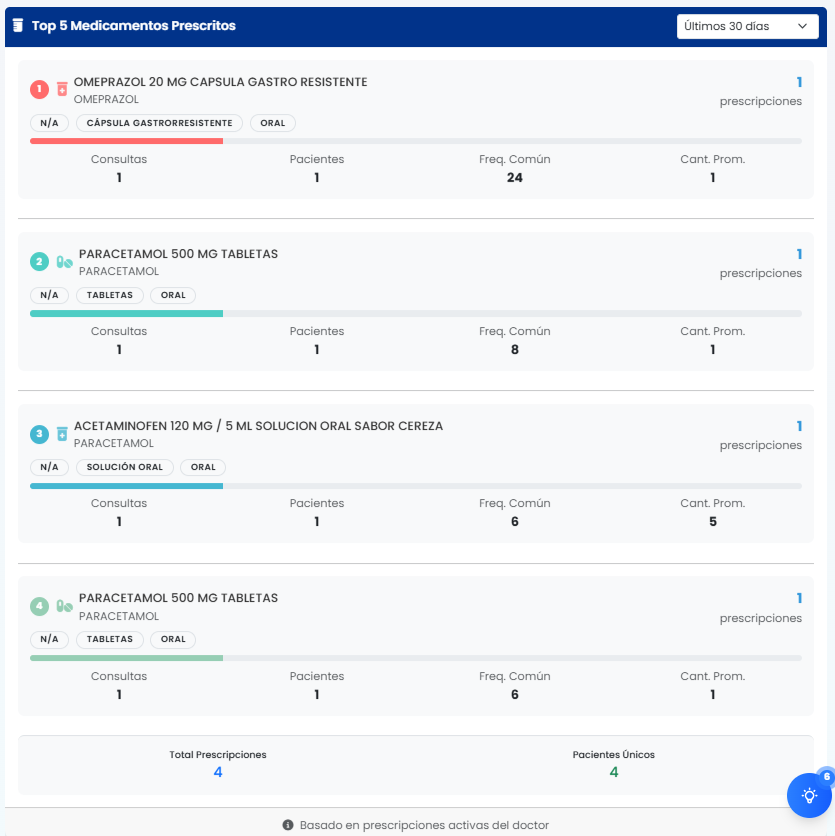
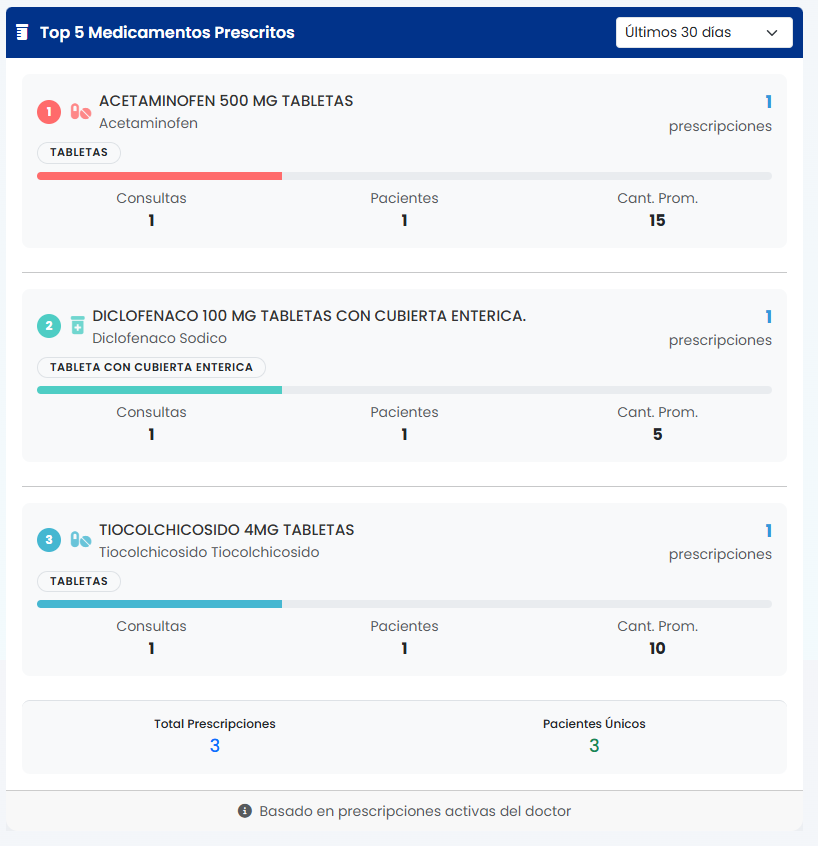
bug fix

diff --git a/resources/views/help/billing.blade.php b/resources/views/help/billing.blade.php
@@ -390,9 +390,9 @@ body {
 .status-issued { background: #e3f2fd; color: #1565c0; }
 .status-balanced { background: #e8f5e9; color: #2e7d32; }
 .status-cancelled { background: #ffebee; color: #c62828; }
-.status-unpaid { background: #fff3e0; color: #e65100; }
-.status-partially-paid { background: #fff9c4; color: #f57f17; }
-.status-paid { background: #c8e6c9; color: #1b5e20; }
+.status-unpaid { background: #ffe5f6; color: #ff01a2; }
+.status-partially-paid { background: #fef5e4; color: #ff9b01; }
+.status-paid { background:rgba(0, 211, 199, 0.1); color: #00D3C7; }
 
 /* Back to top */
 .back-to-top {
@@ -675,9 +675,9 @@ body {
                 <li>Esta sección muestra los servicios ya agregados</li>
             </ul>
 
-        <div>
-            <img src="{{ asset('images/tutorial/invoices/invoice_cs.png') }}" alt="" style="width: 100%;">
-        </div>
+            <div>
+                <img src="{{ asset('images/tutorial/invoices/invoice_cs.png') }}" alt="" style="width: 100%;">
+            </div>
 
         <div class="info-box note">
             <div class="info-box-title">
@@ -710,16 +710,17 @@ body {
             </ul>
 
             <div>
-                <img src="{{ asset('images/tutorial/invoices/invoice_add.png') }}" alt="" style="width: 100%;">
+                <img src="{{ asset('images/tutorial/encounters/invoice_add.png') }}" alt="" style="width: 100%;">
             </div>
-
+            {{--}}
             <div class="info-box tip">
                 <div class="info-box-title">
                     <i class="fas fa-lightbulb text-success"></i>
                     Acceso Rápido
                 </div>
-                <p class="mb-0">Esta sección cuenta con un "Acceso Rápido" con los servicios más utilizados, para acceder a el haga clic en <strong>"Listado de Servicios"</strong>. Esto permite agregar servicios comunes con un sólo clic.</p>
+                <p class="mb-0">Esta sección cuenta con un "Directorio de servicios por categoria" , para acceder a el haga clic en <strong>"Listado de Servicios"</strong>. Esto permite agregar servicios comunes con un sólo clic.</p>
             </div>
+            {{--}}
         </div>
 
         <!-- Step 3 -->
@@ -791,7 +792,7 @@ body {
             </ul>
 
             <div>
-                <img src="{{ asset('images/tutorial/invoices/invoice_edit.png') }}" alt="" style="width: 100%;">
+                <img src="{{ asset('images/tutorial/encounters/encounter_services.png') }}" alt="" style="width: 100%;">
             </div>
 
             <div class="info-box danger">
@@ -1044,24 +1045,23 @@ body {
                     <tr>
                         <th>Estado de Pago</th>
                         <th>Descripción</th>
-                        <th>Badge</th>
                     </tr>
                 </thead>
                 <tbody>
                     <tr>
-                        <td data-label="Estado"><strong>Unpaid</strong></td>
+                        <td data-label="Badge"><span class="status-badge status-unpaid">{{ App\Enums\InvoivePatientStatus::getLabel('unpaid')  }}</span></td>
                         <td data-label="Descripcion">No se ha registrado ningún pago</td>
-                        <td data-label="Badge"><span class="status-badge status-unpaid">No Pagada</span></td>
+
                     </tr>
                     <tr>
-                        <td data-label="Estado"><strong>Partially Paid</strong></td>
+                        <td data-label="Badge"><span class="status-badge status-partially-paid">{{ App\Enums\InvoivePatientStatus::getLabel('partial')  }}</span></td>
                         <td data-label="Descripcion">Se ha pagado parte del monto total</td>
-                        <td data-label="Badge"><span class="status-badge status-partially-paid">Pago Parcial</span></td>
+
                     </tr>
                     <tr>
-                        <td data-label="Estado"><strong>Paid</strong></td>
+                        <td data-label="Badge"><span class="status-badge status-paid">{{ App\Enums\InvoivePatientStatus::getLabel('paid')  }}</span></td>
                         <td data-label="Descripcion">Monto total pagado completamente</td>
-                        <td data-label="Badge"><span class="status-badge status-paid">Pagada</span></td>
+
                     </tr>
                 </tbody>
             </table>
@@ -1171,18 +1171,6 @@ body {
                 </div>
             </div>
 
-            <div class="accordion-item">
-                <h2 class="accordion-header">
-                    <button class="accordion-button collapsed" type="button" data-bs-toggle="collapse" data-bs-target="#faq5">
-                        ¿Cómo configuro el catálogo de servicios?
-                    </button>
-                </h2>
-                <div id="faq5" class="accordion-collapse collapse" data-bs-parent="#faqAccordion">
-                    <div class="accordion-body">
-                        El catálogo de servicios se configura en el módulo de <a href="{{ route('help.settings') }}">Configuraciones</a>. Solo usuarios con permisos de administrador pueden agregar, modificar o eliminar servicios del catálogo. Contacte a su administrador si necesita cambios en el catálogo.
-                    </div>
-                </div>
-            </div>
         </div>
 
         <div class="info-box tip mt-4">

diff --git a/resources/views/help/settings.blade.php b/resources/views/help/settings.blade.php
@@ -1390,7 +1390,7 @@ margin: 20px 0;
                             </tr>
                             <tr>
                                 <td data-label="Seccion"><strong>Enfermedad Actual</strong></td>
-                                <td data-label="Descripcion">Descripcion de la enfermedad presente</td>
+                                <td data-label="Descripcion">Descripcion de la enfermedad presente <br/><b>NOTA :</b> Esta seccion se puede ajustar al modo simplificado , que implica un solo campo de descripción de la enfermedad actual.</td>
                             </tr>
                             <tr>
                                 <td data-label="Seccion"><strong>Examen Fisico</strong></td>
@@ -1411,6 +1411,14 @@ margin: 20px 0;
                             <tr>
                                 <td data-label="Seccion"><strong>Medicamentos</strong></td>
                                 <td data-label="Descripcion">Medicamentos recetados</td>
+                            </tr>
+                            <tr>
+                                <td data-label="Seccion"><strong>Suministro</strong></td>
+                                <td data-label="Descripcion">Gestión del inventario durante la consulta.</td>
+                            </tr>
+                            <tr>
+                                <td data-label="Seccion"><strong>Almacenamineto Externo</strong></td>
+                                <td data-label="Descripcion">Gestión del archivos conecados con dropbox durante la consulta.</td>
                             </tr>
                             <tr>
                                 <td data-label="Seccion"><strong>Nota General</strong></td>
@@ -1980,7 +1988,9 @@ margin: 20px 0;
                 <li>Apruebe el acceso para permitir que SAMI acceda a su cuenta</li>
                 <li>Será redirigido de vuelta a SAMI con la conexión establecida</li>
             </ol>
-
+            <div>
+                <img src="{{ asset('images/tutorial/settings/config_dropbox.png') }}" alt="" style="width: 100%;">
+            </div>
             <div class="info-box note">
                 <div class="info-box-title">
                     <i class="fas fa-info-circle text-primary"></i>
@@ -1999,7 +2009,9 @@ margin: 20px 0;
                 <li>Aparecerá un estado <span class="badge bg-success">Conectado</span></li>
                 <li>Los archivos comenzarán a sincronizarse automáticamente</li>
             </ol>
-
+            <div>
+                <img src="{{ asset('images/tutorial/settings/config_dropbox_configured.png') }}" alt="" style="width: 100%;">
+            </div>
             <div class="info-box warning">
                 <div class="info-box-title">
                     <i class="fas fa-exclamation-triangle text-warning"></i>
@@ -2298,7 +2310,7 @@ margin: 20px 0;
                 </div>
             </div>
         </div>
-
+        {{--}}
         <h3>Resumen de Permisos</h3>
         <div class="field-table-wrapper">
             <table class="field-table">
@@ -2357,7 +2369,7 @@ margin: 20px 0;
                 </tbody>
             </table>
         </div>
-
+        {{--}}
         <div class="info-box note mt-4">
             <div class="info-box-title">
                 <i class="fas fa-question-circle text-primary"></i>

diff --git a/resources/views/livewire/payment/data-table.blade.php b/resources/views/livewire/payment/data-table.blade.php
@@ -23,12 +23,14 @@
                                         <input wire:model.live="dateTo" class="form-control datetimepicker" type="text">
                                     </div>
                                 </div>
+                                {{--}}
                                 <div class="col-12 col-md-3 col-xl-3 ">
                                     <div class="input-block  local-forms">
                                         <x-input-label for="status" :value="__('Estatus')" />
                                         <x-select-input wire:model.live="status" name="status" :options="$this->statusOptions" :selected="['']" class="block mt-1 w-full"/>
                                     </div>
                                 </div>
+                                {{--}}
                                 <div class="col-12 col-md-3 col-xl-3 ">
                                     <div class="input-block  local-forms">
                                         <x-input-label for="paymentMethod" :value="__('Metodo de pago')" />
@@ -71,12 +73,14 @@
                                                 <i class="fa fa-sort-{{ $sortDirection === 'asc' ? 'up' : 'down' }}"></i>
                                             @endif
                                         </th>
+                                        {{--}}
                                         <th data-column="status" data-priority="7" wire:click="sortBy('status')" style="cursor: pointer;">
                                             {{ __('Estado') }}
                                             @if($sortField === 'status')
                                                 <i class="fa fa-sort-{{ $sortDirection === 'asc' ? 'up' : 'down' }}"></i>
                                             @endif
                                         </th>
+                                        {{--}}
                                         <th data-column="acciones" data-priority="1">{{ __('Acciones') }}</th>
                                     </tr>
                                 </thead>
@@ -134,6 +138,7 @@
                                                     ${{ number_format($payment->amount, 2) }}
                                                 </span>
                                             </td>
+                                            {{--}}
                                             <td data-column="status" data-priority="7" data-label="{{ __('Estado') }}">
                                                 <span class="cell-content">
                                                     <span class="badge
@@ -159,6 +164,7 @@
                                                     </span>
                                                 </span>
                                             </td>
+                                            {{--}}
                                             <td data-column="acciones" data-priority="1" data-label="{{ __('Acciones') }}" class="text-end">
                                                 <div class="btn-group btn-group-sm">
                                                     @if($payment->invoice)

diff --git a/app/Livewire/Doctor/ConsultationEffectiveness.php b/app/Livewire/Doctor/ConsultationEffectiveness.php
@@ -28,14 +28,6 @@ class ConsultationEffectiveness extends Component
 
     public $isLoading = true;
 
-    // Flujo de estados esperado
-    private $expectedStatusFlow = [
-        'booked' => 1,
-        'arrived' => 2,
-        'checked-in' => 3,
-        'fulfilled' => 4,
-    ];
-
     public function mount()
     {
         // Inicializar variables para evitar errores
@@ -190,13 +182,20 @@ class ConsultationEffectiveness extends Component
         ];
 
         foreach ($statusHistory as $appointmentId => $statuses) {
-            $maxStatus = $statuses->max('status');
+            $statusesByStatus = $statuses->keyBy('status');
 
-            // Contar cuántas citas llegaron a cada estado
-            foreach ($this->expectedStatusFlow as $status => $order) {
-                if ($this->getStatusOrder($maxStatus) >= $order) {
-                    $statusCounts[$status]++;
-                }
+            // Contar si cada estado existe en el historial
+            if (isset($statusesByStatus['booked'])) {
+                $statusCounts['booked']++;
+            }
+            if (isset($statusesByStatus['arrived'])) {
+                $statusCounts['arrived']++;
+            }
+            if (isset($statusesByStatus['checked-in'])) {
+                $statusCounts['checked-in']++;
+            }
+            if (isset($statusesByStatus['fulfilled'])) {
+                $statusCounts['fulfilled']++;
             }
         }
 
@@ -249,11 +248,6 @@ class ConsultationEffectiveness extends Component
 
         return $totalAppointments > 0 ?
             round(($fulfilledCount / $totalAppointments) * 100, 1) : 0;
-    }
-
-    private function getStatusOrder($status)
-    {
-        return $this->expectedStatusFlow[$status] ?? 0;
     }
 
     public function getEffectivenessPercentage($fromStatus, $toStatus)

diff --git a/resources/views/help/doctor-dashboard.blade.php b/resources/views/help/doctor-dashboard.blade.php
@@ -324,13 +324,19 @@ body {
                     <p>Contabiliza los pacientes que han tenido consultas o movimientos recientes en su práctica.</p>
                 </div>
             </div>
-            <div class="col-md-3">
+            <div class="col-md-2">
                 <div class="step-card text-center">
                     <div class="step-title">Citas del mes</div>
                     <p>El volumen total de citas gestionadas en el transcurso del mes vigente.</p>
                 </div>
             </div>
-            <div class="col-md-3">
+            <div class="col-md-2">
+                <div class="step-card text-center">
+                    <div class="step-title">Citas sin completar</div>
+                    <p>Recordatorio de citas que ha sido agendadas pero no ha sido completadas en su flujo completo .</p>
+                </div>
+            </div>
+            <div class="col-md-2">
                 <div class="step-card text-center">
                     <div class="step-title">Consultas sin finalizar</div>
                     <p>Recordatorio crítico de actos médicos que han sido iniciados pero aún no se han cerrado formalmente.</p>
@@ -428,7 +434,7 @@ body {
             <div class="col-md-6">
                 <div class="step-card">
                     <div class="step-title">Top 5 Medicamentos Prescritos</div>
-                    <p>Listado de los fármacos que más prescribe, incluyendo detalles de frecuencia y número de pacientes tratados.</p>
+                    <p>Listado de los fármacos que más prescribe, incluyendo detalles de número de pacientes tratados.</p>
                     <div>
                         <img src="{{ asset('images/tutorial/doctor-dashboard/dd-p42.png') }}" alt="" style="width: 100%;">
                     </div>

diff --git a/app/Enums/InvoivePatientStatus.php b/app/Enums/InvoivePatientStatus.php
@@ -22,9 +22,31 @@ enum InvoivePatientStatus: string
         };
     }
 
+    public static function getLabel(string $value): string
+    {
+        return match(self::tryFrom($value)) {
+            self::UNPAID => 'No Pagada',
+            self::PAID => 'Pagada',
+            self::PARTIAL => 'Pago Parcial',
+            self::OVERDUE => 'Vencida',
+            self::PENDING => 'Pendiente',
+        };
+    }
+
     public function color(): string
     {
         return match ($this) {
+            self::UNPAID => 'custom-badge status-pink',
+            self::PAID => 'custom-badge status-green',
+            self::PARTIAL => 'custom-badge status-orange',
+            self::OVERDUE => 'custom-badge status-default',
+            self::PENDING => 'custom-badge Pendiente',
+        };
+    }
+
+    public static function getColor(string $value): string
+    {
+        return match(self::tryFrom($value)) {
             self::UNPAID => 'custom-badge status-pink',
             self::PAID => 'custom-badge status-green',
             self::PARTIAL => 'custom-badge status-orange',

diff --git a/resources/views/help/consultation.blade.php b/resources/views/help/consultation.blade.php
@@ -1021,7 +1021,7 @@ body {
                     <h6><span style="color: #d32f2f; font-weight: 700;">2.</span> Agregar Servicios Facturables</h6>
                     <p>Expanda la primera sección <strong>"Servicios Facturables"</strong>, elija la categoría y agregue los servicios necesarios que fueron previamente registrados en la sección de Configuraciones → Catálogo de Servicios.</p>
                     <div>
-                        <img src="{{ asset('images/tutorial/encounters/invoice_add.png') }}" alt="" style="width: 100%;">
+                        <img src="{{ asset('images/tutorial/encounters/encounter_services.png') }}" alt="" style="width: 100%;">
                     </div>
 
                     <div class="info-box info-note">

diff --git a/resources/views/livewire/consultation/services.blade.php b/resources/views/livewire/consultation/services.blade.php
@@ -11,6 +11,7 @@
                             <th>{{ __('Cantidad') }}</th>
                             <th>{{ __('Precio Unit.') }}</th>
                             <th>{{ __('Total') }}</th>
+                            <th>{{ __('Estatus') }}</th>
                             <th>{{ __('Acciones') }}</th>
                         </tr>
                     </thead>
